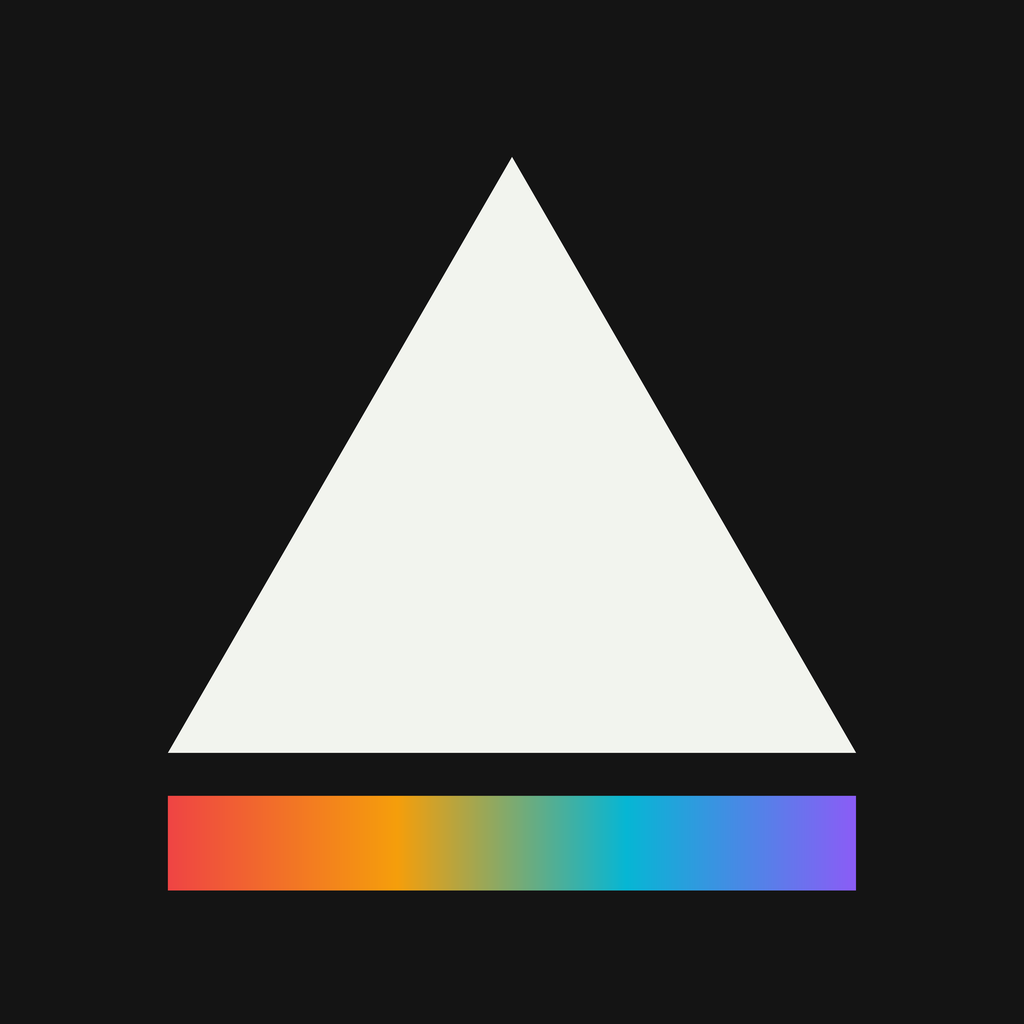
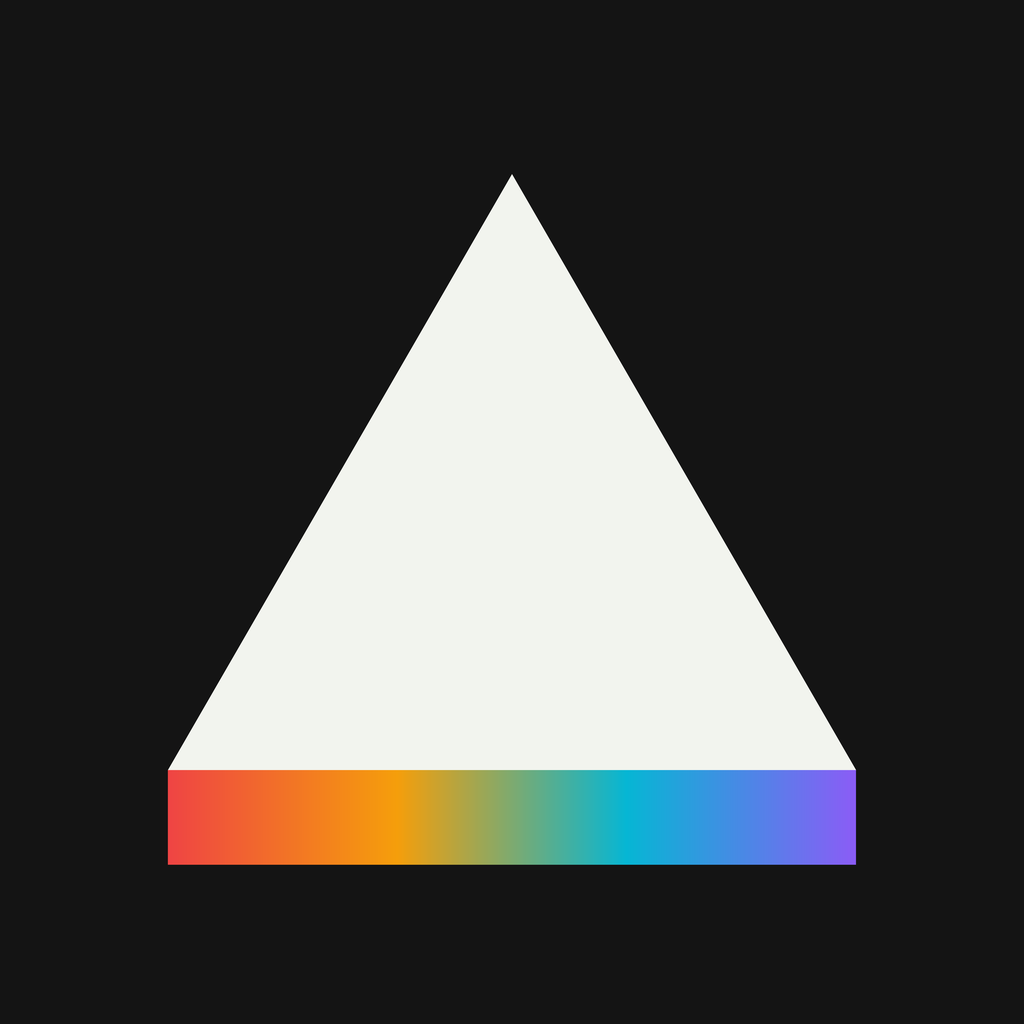
fix(brand): the spectrum is attached to the base — one shape, no gap
Founder: the app icon read as split. The band's top edge is now the
triangle's base line (y 19.5; apex 2.18 keeps it equilateral), exactly the
base's width, 2.75 tall. Same numbers in the SVG, the OG copy and the PNG
exports; the test reads the base line from the path and pins the band to it.

diff --git a/web/src/lib/mark.ts b/web/src/lib/mark.ts
@@ -4,17 +4,20 @@
  *
  * A 24×24 box. The prism is an equilateral triangle, FILL ONLY — the old mark
  * stroked it at 1.5, which put every edge on a fraction and clipped the base
- * below the box. Base 20 wide (x 2…22) at y 19; apex at 19 − 20·√3/2 = 1.68.
- * The spectrum is a band BELOW the base, exactly the base's width, with a
- * 1.25 gap: the light leaves the prism and lands on the ground. The old band
- * was painted over the triangle's bottom two units and ran wider than the
- * triangle there, so its ends stuck out past the slanted sides. The band is a
+ * below the box. Base 20 wide (x 2…22) at y 19.5; apex at 19.5 − 20·√3/2 = 2.18.
+ * The spectrum is a band ATTACHED to the base — its top edge is the base line,
+ * exactly the base's width, 2.75 tall: one shape, prism standing on its
+ * spectrum (founder, 2026-09-20: a gap read as a split icon). The old band was
+ * painted over the triangle's bottom two units and ran wider than the triangle
+ * there, so its ends stuck out past the slanted sides. The band is a
  * continuous spectrum, red → amber → cyan → violet (founder: a spectrum, not
  * blocks), with the stops at the design's four hues.
  */
 export const MARK_BOX = 24;
-export const MARK_TRIANGLE = "M12 1.68 L22 19 L2 19 Z";
-export const MARK_BAND = { x: 2, y: 20.25, width: 20, height: 2.75 };
+export const MARK_TRIANGLE = "M12 2.18 L22 19.5 L2 19.5 Z";
+/** The band's top IS the triangle's base line — no gap. */
+export const MARK_BASE_Y = 19.5;
+export const MARK_BAND = { x: 2, y: MARK_BASE_Y, width: 20, height: 2.75 };
 export const SPECTRUM = ["#ef4444", "#f59e0b", "#06b6d4", "#8b5cf6"] as const;
 
 /** Gradient stops, evenly spaced across the band: 0, 1/3, 2/3, 1. */

diff --git a/web/src/components/PrismMark.test.tsx b/web/src/components/PrismMark.test.tsx
@@ -1,7 +1,7 @@
 import { render } from "@testing-library/react";
 import { describe, expect, it } from "vitest";
 import { PrismMark } from "@/components/PrismMark";
-import { MARK_BAND, MARK_TRIANGLE, SPECTRUM } from "@/lib/mark";
+import { MARK_BAND, MARK_BASE_Y, MARK_TRIANGLE, SPECTRUM } from "@/lib/mark";
 
 /**
  * The mark's geometry, pinned. The old mark stroked the triangle at 1.5 (edges
@@ -18,13 +18,16 @@ describe("PrismMark", () => {
     expect(tri.getAttribute("d")).toBe(MARK_TRIANGLE);
   });
 
-  it("puts the spectrum below the base, exactly as wide as the base, as one continuous gradient", () => {
+  it("stands the prism ON its spectrum: the band's top is the base line, no gap, exactly the base's width", () => {
     const { container } = render(<><PrismMark size={24} /><PrismMark size={24} /></>);
     const rects = [...container.querySelectorAll("rect")];
     expect(rects).toHaveLength(2);
+    // The triangle's base line, read from the path itself.
+    const baseY = Number(/L22 ([\d.]+) L2/.exec(MARK_TRIANGLE)![1]);
+    expect(baseY).toBe(MARK_BASE_Y);
     for (const r of rects) {
       expect([Number(r.getAttribute("x")), Number(r.getAttribute("width"))]).toEqual([2, 20]);
-      expect(Number(r.getAttribute("y"))).toBeGreaterThan(19);
+      expect(Number(r.getAttribute("y"))).toBe(baseY);
       expect(Number(r.getAttribute("y")) + Number(r.getAttribute("height"))).toBeLessThanOrEqual(24);
     }
     // One gradient per instance, four stops in the design's hues.

diff --git a/design/logo/build.py b/design/logo/build.py
@@ -15,9 +15,10 @@ import shutil
 from PIL import Image, ImageDraw, ImageFont
 
 BOX = 24
-APEX_Y = 19 - 20 * math.sqrt(3) / 2  # 1.68
-TRI = [(12, APEX_Y), (22, 19), (2, 19)]
-BAND = (2, 20.25, 20, 2.75)
+BASE_Y = 19.5
+APEX_Y = BASE_Y - 20 * math.sqrt(3) / 2  # 2.18
+TRI = [(12, APEX_Y), (22, BASE_Y), (2, BASE_Y)]
+BAND = (2, BASE_Y, 20, 2.75)  # attached to the base: no gap
 SPECTRUM = ["#ef4444", "#f59e0b", "#06b6d4", "#8b5cf6"]
 INK, IVORY, CHARCOAL = "#141414", "#f2f4ee", "#141414"
 OUT = pathlib.Path(__file__).with_name("exports")

diff --git a/DESIGN.md b/DESIGN.md
@@ -85,7 +85,7 @@ reading a manual:
 
 ## The mark
 
-A 24×24 box: an equilateral prism, fill only (no stroke — a stroke put every edge on a fraction and clipped the base), base 20 wide at y 19, apex at 1.68; the spectrum a band below the base, exactly the base's width, 1.25 below it, as one continuous spectrum with stops at the coverage bar's four hues (red → amber → cyan → violet). Geometry lives once in `web/src/lib/mark.ts`; the favicon, the share card and the PNG exports (`design/logo/build.py` → `design/logo/exports/`, shareable set at `/brand/*.png`) draw the same numbers. The triangle takes `currentColor`; the band is the only spectrum in the system. Fixed 2026-09-20 after the founder zoomed in on the old base.
+A 24×24 box: an equilateral prism, fill only (no stroke — a stroke put every edge on a fraction and clipped the base), base 20 wide at y 19.5, apex at 2.18; the spectrum a band ATTACHED to the base — its top edge is the base line, no gap (a gap read as a split icon) — exactly the base's width, 2.75 tall, as one continuous spectrum with stops at the coverage bar's four hues (red → amber → cyan → violet). Geometry lives once in `web/src/lib/mark.ts`; the favicon, the share card and the PNG exports (`design/logo/build.py` → `design/logo/exports/`, shareable set at `/brand/*.png`) draw the same numbers. The triangle takes `currentColor`; the band is the only spectrum in the system. Fixed 2026-09-20 after the founder zoomed in on the old base.
 
 ## Colour
 
